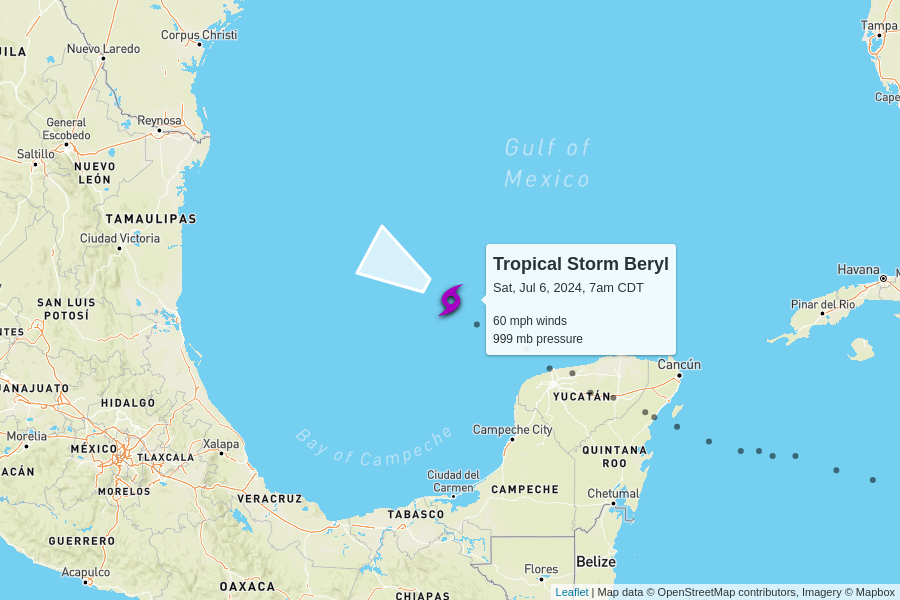
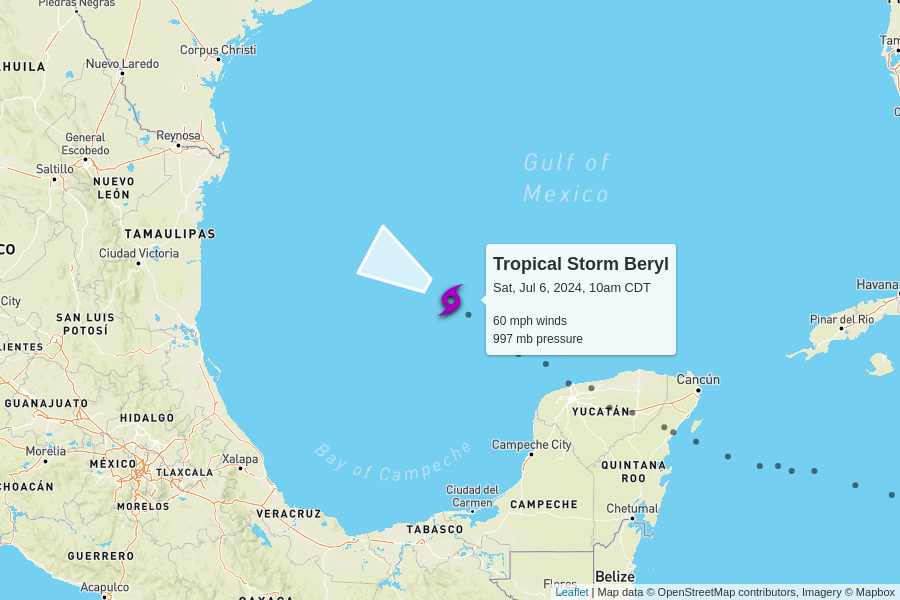
automatic update

diff --git a/docs/index.html b/docs/index.html
@@ -102,7 +102,7 @@
         <td colspan="6" class="storm category-0" >
           <h2>
             Tropical Storm Beryl
-            <p class="updated">last updated <span data-time>2024-07-06T12:00:00.000Z</span></p>
+            <p class="updated">last updated <span data-time>2024-07-06T15:00:00.000Z</span></p>
           </h2>
         </td>
       </tr>
@@ -118,7 +118,7 @@
       <tr>
         <td class="spacer"></td>
         <td>60 mph<br>0 mph since last update</td>
-        <td>999 mb<br>-2 mb since last update</td>
+        <td>997 mb<br>-2 mb since last update</td>
         <td>
           12 mph to the west-northwest
           <br/>
